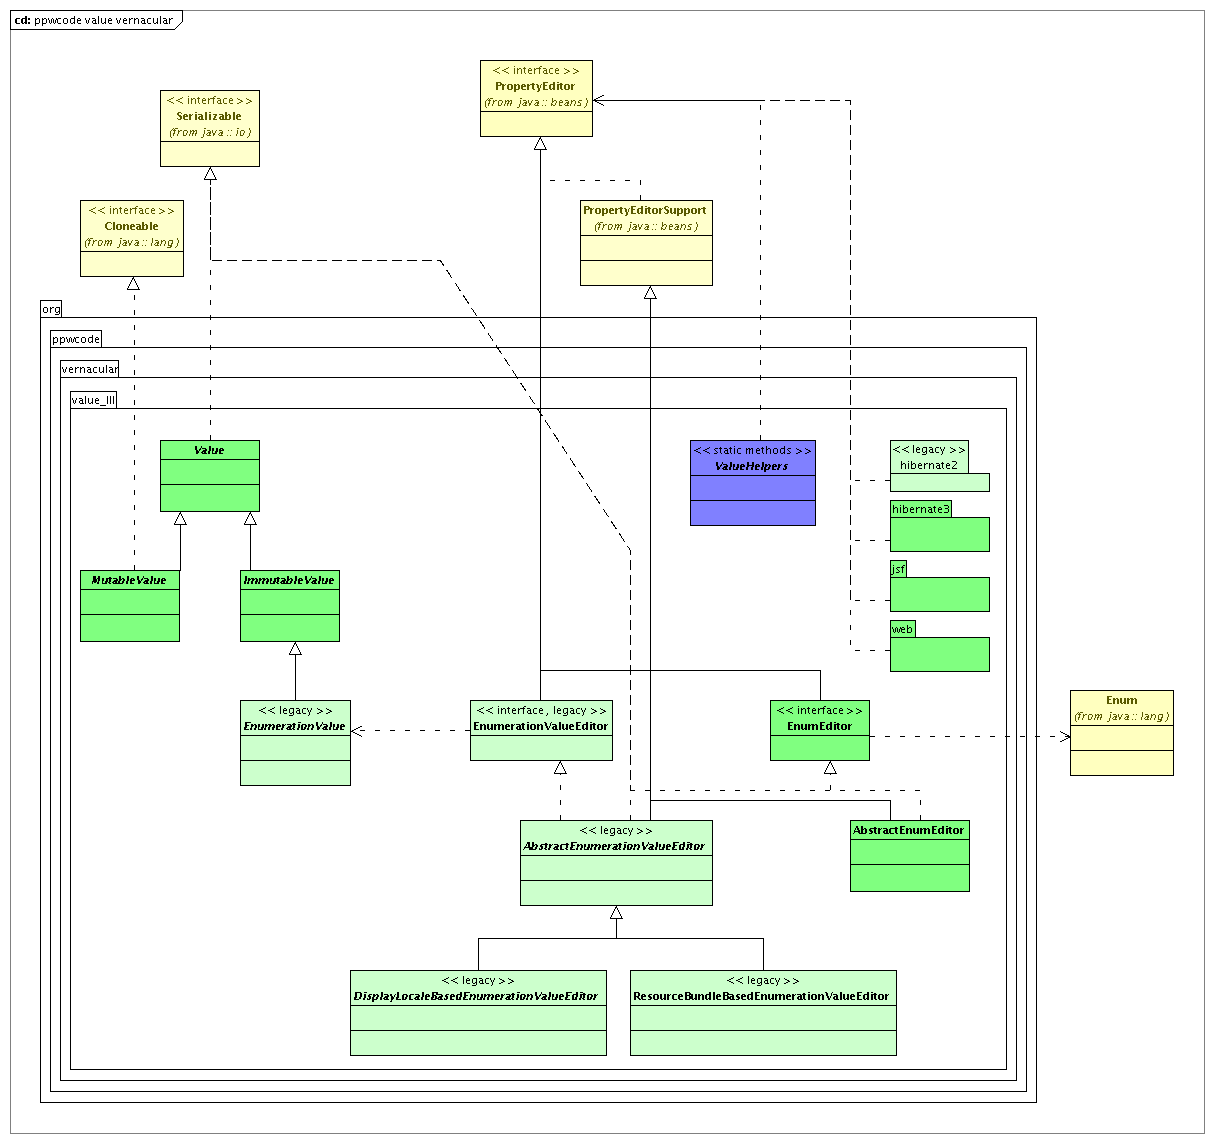
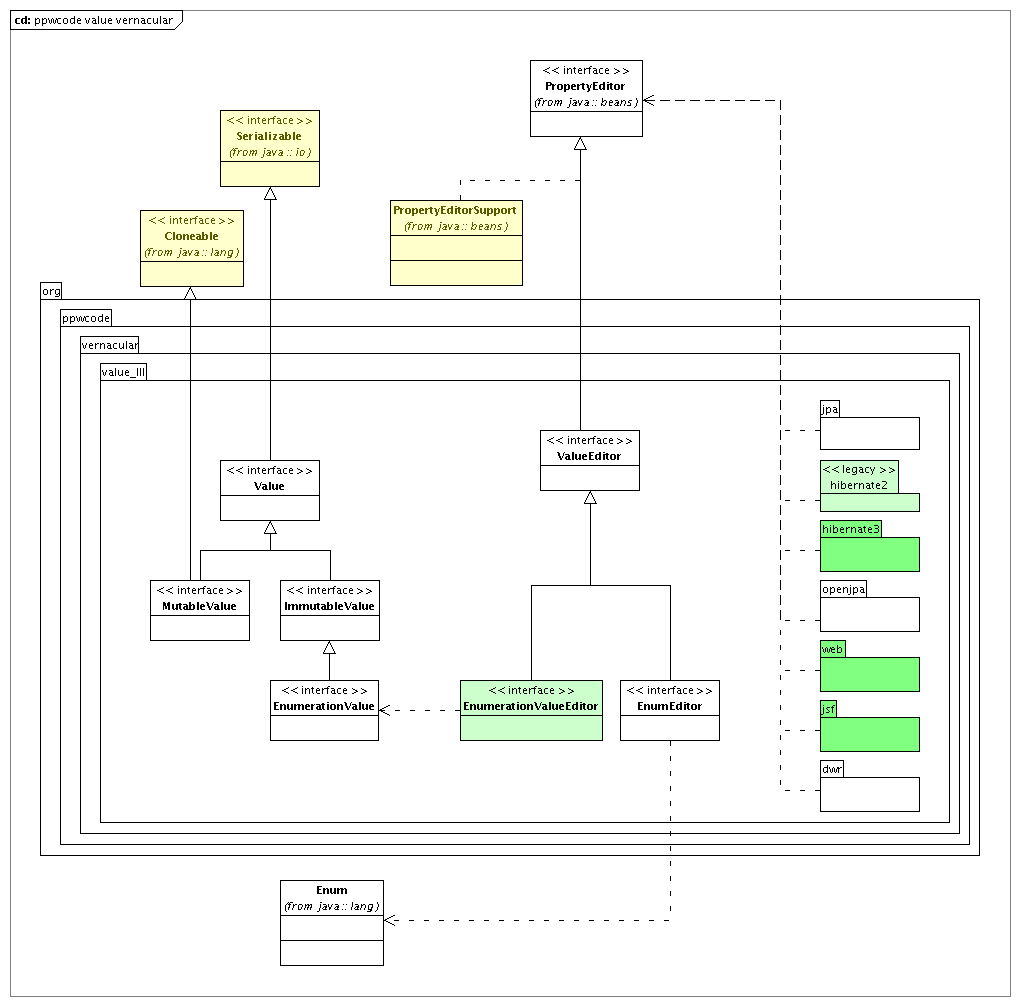
documentation update

diff --git a/java/vernacular/value/trunk/src/main/java/org/ppwcode/vernacular/value_III/package.html b/java/vernacular/value/trunk/src/main/java/org/ppwcode/vernacular/value_III/package.html
@@ -2,20 +2,61 @@
 <html xmlns="http://www.w3.org/1999/xhtml">
 <head>
 <meta http-equiv="Content-Type" content="text/html; charset=iso-8859-1" />
-<title>PeopleWare Values</title>
+<title>ppwcode vernacular value</title>
 </head>
 
 <body>
 <p>This package contains guidelines for implementing value type classes. General
-things are defined in class <a href="Value.html"><code>Value</code></a>, <a href="MutableValue.htlm"><code>MutableValue</code></a>, <a href="ImmutableValue.html"><code>ImmutableValue</code></a> and <a href="EnumerationValue.html"><code>EnumerationValue</code></a>. </p>
+  things are defined in class <a href="Value.html"><code>Value</code></a>,
+  <a href="MutableValue.htmm"><code>MutableValue</code></a>,
+  <a href="ImmutableValue.html"><code>ImmutableValue</code></a> and
+  <a href="EnumerationValue.html"><code>EnumerationValue</code></a>. Each value type
+  should implement one of these interfaces, or be a Java <code>enum</code>.</p>
+<p>This package offers abstract classes that can be used as superclasses for value type
+  implementations, that implement as much of the contract of values as possible.</p>
+<p>Exceptions thrown in the context of value types should be or extend
+  <a href="SemanticValueException.html><code>SemanticValueException</code></a>.</p>
+<p>General code for dealing with values is gathered in <a href="ValueHelpers.html"><code>ValueHelpers</code></a>
+  and <a href="EnumHelpers.html"><code>EnumHelpers</code></a>.</p>
+<h3>Peripheral code</h3>
+<p>For each value type you define, you need extra code that interacts with the
+  context and framework you use in periphery. In a web application, you need code
+  to transfor a value object to and from a String representation that can be
+  carried in a HTTP request and response. In a desktop application, you need a way
+  to edit properties of objects of value type. When object properties of a value type
+  need to be persisted using a persistence technology, we need to explain to the
+  technology how to do that. In the case of SQL-based persistent storage, we need
+  to map the value type to SQL primitives. The code to do this is to be considered
+  part of the definition of the value type, and should be offered in classes next
+  to the value type. We expect that support is offered for the technologies the creator
+  of a new value type uses at the moment of creation, and further support to be added
+  when other people use the value type in other contexts. As such a value library
+  will continuously ameliorate.</p><p>This package offers general support for the implementation of such peripheral
+  interaction code for value types for</p>
+<ul>
+  <li>JPA (<a href="jpa/package.html"><code>org.ppwcode.vernacular.value_N.jpa</code></a>)</li>
+  <li>Hibernate 2 and 3
+    (user types, see <a href="hibernate2/package.html"><code>org.ppwcode.vernacular.value_N.hibernate2</code></a>
+    and <a href="hibernate3/package.html"><code>org.ppwcode.vernacular.value_N.hibernate3</code></a>)</li>
+  <li>OpenJPA (value handlers, see <a href="openjpa/package.html"><code>org.ppwcode.vernacular.value_N.openjpa</code></a>)</li>
+  <li>web applications (configuration code, see <a href="web/package.html"><code>org.ppwcode.vernacular.value_N.web</code></a>)</li>
+  <li>JSF (converters and components, <em>not reactivated yet &mdash; this code can be found in the jsf
+    project that is still in the purgatory</em>)</li>
+  <li>dwr (converters, <em>coming</em>)</li>
+  <li>...</li>
+</ul>
+<p>For simple value types, the interaction with the periphery most often revolves around transforming
+  a value instance to and from a programmatic String representation of that value. There are many
+  different frameworks around to do this, that all basically to the same thing. We have choosen for
+  simple types always to implement a standard Java SE {@link java.beans.PropertyEditor}. For all the
+  other peripheral technologies we than have an implementation of user types, value handlers,
+  converters and the likes that delegate transformation to an appropriate {@link java.beans.PropertyEditor}
+  instance for the given value type. This essentially makes it possible for simple value types that
+  have a String programmatic representation to be able to perform in any supported peripheral context
+  when we only have to program an appropriate {@link java.beans.PropertyEditor}, or even only have
+  to code the value type according to patterns explained in the interfaces for value types.</p>
 <img src="doc-files/ppwcodevaluevernacular.png" width="100%" />
-<p>This package contains all value type classes with general applicabiltity defined
-  in different projects. For each value type class, there is an accompanying
-  <code>PropertyEditor</code>. These are placed next to the value type classes
-  they serve, because that is the default location where JavaBeans aware code
-  looks for them.</p>
-<p>All value type classes also have accompanying <code>UserType</code> meta-data
-  classes for use of the types with <a href="http://www.hibernate.org/">Hibernate</a>.
-  These classes are gathered in subpackage <code><a href="hibernate/index.html">hibernate</a></code>. </p>
+<p>For more complex value types, we need separate code for each peripheral technology, or a more ad hoc
+  generalization is to be created.</p>
 </body>
 </html>
